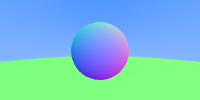
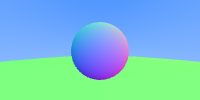
Move averaging into its own module

diff --git a/src/render.rs b/src/render.rs
@@ -1,3 +1,4 @@
+use crate::average::Average;
 use crate::camera::Camera;
 use crate::color::Color;
 use crate::ray::Ray;
@@ -17,8 +18,8 @@ pub struct Renderer {
 }
 
 impl Renderer {
-    /// pixel_at computes the color of the input pixel
-    pub fn write<F>(&self, pixel_at: F)
+    /// `color_hit_by` computes the color of the object the ray hits.
+    pub fn write<F>(&self, color_hit_by: F)
     where
         F: Fn(&Ray) -> Color,
     {
@@ -27,21 +28,31 @@ impl Renderer {
 
         // Iterate over the coordinates and pixels of the image
         for (x, y, pixel) in img_buf.enumerate_pixels_mut() {
-            let mut pixel_color = Vec3::new_uniform(0.0);
+            // Sample a number of points inside the pixel, get each of their colors, and average them
+            // all together. This is called "antialiasing" and helps the image look smoother.
+            let mut avg_color = Average::<Vec3>::new();
             for _ in 0..self.samples {
+                // Choose a random point inside this pixel
                 let rx: f64 = rng.gen();
                 let ry: f64 = rng.gen();
                 let u = (x as f64 + rx) / (self.width as f64);
                 let v = ((self.height - y) as f64 + ry) / (self.height as f64);
-                let ray = self.camera.ray_to_point(u, v);
-                pixel_color += pixel_at(&ray).vec();
-            }
-            pixel_color = pixel_color.scale(1.0 / self.samples as f64);
 
-            let color: Color = pixel_color.into();
-            *pixel = image::Rgb(color.to_rgb());
+                // Then get the ray from the camera to that point,
+                // check what color it hits.
+                let ray = self.camera.ray_to_point(u, v);
+                let color_at_this_point = color_hit_by(&ray);
+
+                // To do antialiasing, average this color with all the other points inside this pixel.
+                avg_color.push(color_at_this_point.vec());
+            }
+
+            // Write the final pixel color into the image.
+            let antialiased_pixel_color = avg_color.average();
+            *pixel = image::Rgb(Color::from(antialiased_pixel_color).to_rgb());
         }
 
+        // Write the image to disk
         let path = Path::new(self.output_dir).join(self.filename);
         img_buf.save(path).unwrap();
     }

diff --git a/src/vector.rs b/src/vector.rs
@@ -1,3 +1,4 @@
+use crate::average::Scalable;
 use std::iter::Sum;
 use std::ops::{Add, AddAssign, Div, DivAssign, Mul, MulAssign, Neg, Sub, SubAssign};
 
@@ -51,15 +52,6 @@ impl Vec3 {
         (self.x * self.x) + (self.y * self.y) + (self.z * self.z)
     }
 
-    /// Scale the vector by a scalar
-    pub fn scale(&self, f: f64) -> Self {
-        Vec3 {
-            x: f * self.x,
-            y: f * self.y,
-            z: f * self.z,
-        }
-    }
-
     // Create a weighted average of the two vectors, i.e.
     // t*other + (1-t)self
     pub fn interpolate(&self, other: &Vec3, t: f64) -> Self {
@@ -67,11 +59,32 @@ impl Vec3 {
     }
 }
 
+impl Scalable for Vec3 {
+    /// Scale the vector by a scalar
+    fn scale(&self, f: f64) -> Self {
+        Vec3 {
+            x: f * self.x,
+            y: f * self.y,
+            z: f * self.z,
+        }
+    }
+}
+
 impl<'a> Sum<&'a Vec3> for Vec3 {
-    fn sum<I: Iterator<Item = &'a Vec3>>(mut iter: I) -> Vec3 {
+    fn sum<I: Iterator<Item = &'a Vec3>>(iter: I) -> Vec3 {
         let mut output = Vec3::zero();
-        while let Some(v) = iter.next() {
+        for v in iter {
             output += *v;
+        }
+        output
+    }
+}
+
+impl<'a> Sum<Vec3> for Vec3 {
+    fn sum<I: Iterator<Item = Vec3>>(iter: I) -> Vec3 {
+        let mut output = Vec3::zero();
+        for v in iter {
+            output += v;
         }
         output
     }

diff --git a/src/main.rs b/src/main.rs
@@ -1,3 +1,4 @@
+mod average;
 mod camera;
 mod color;
 mod hittable;
@@ -5,6 +6,7 @@ mod ray;
 mod render;
 mod vector;
 
+use crate::average::Scalable;
 use crate::camera::Camera;
 use crate::color::Color;
 use crate::hittable::{Hittable, Sphere};
@@ -30,7 +32,7 @@ fn main() {
         camera,
         samples: NUM_ANTIALIAS_SAMPLES,
     };
-    r.write(render)
+    r.write(color_hit_by)
 }
 
 /// Render the nice blue/white background
@@ -41,7 +43,7 @@ fn background(r: &Ray) -> Color {
     white.vec().interpolate(&blue.vec(), t).into()
 }
 
-fn render(ray: &Ray) -> Color {
+fn color_hit_by(ray: &Ray) -> Color {
     // Let's put a sphere in the middle of the scene.
     let little_sphere = Hittable::Sphere(Sphere {
         center: Vec3 {
@@ -62,9 +64,11 @@ fn render(ray: &Ray) -> Color {
     });
     let scene = Hittable::Many(vec![big_sphere, little_sphere]);
 
-    // What color should this pixel be? Depends on if the ray hits an object in the scene.
+    // What color should this pixel be?
+    // If the ray hits an object, it'll be that object's colour.
     if let Some(hit) = scene.hit(&ray, 0.0, std::f64::MAX) {
         (hit.normal + Vec3::new_uniform(1.0)).scale(0.5).into()
+    // Otherwise, it'll be the color of the background.
     } else {
         background(ray)
     }

diff --git a/src/average.rs b/src/average.rs
@@ -1,0 +1,37 @@
+pub use std::iter::Sum;
+pub use std::ops::Div;
+
+/// Consumes values and yields their average.
+pub struct Average<T> {
+    v: Vec<T>,
+}
+
+impl<T> Average<T> {
+    /// Get a new Average with no values.
+    pub fn new() -> Self {
+        Average { v: Vec::new() }
+    }
+}
+
+// Anything that can be scaled by a number.
+pub trait Scalable {
+    fn scale(&self, f: f64) -> Self;
+}
+
+impl<T> Average<T>
+where
+    T: Sum<T> + Scalable,
+{
+    /// Take a value and add it to the average
+    pub fn push(&mut self, t: T) {
+        self.v.push(t)
+    }
+
+    /// Get the average of all previously-pushed values.
+    pub fn average(self) -> T {
+        let n = self.v.len();
+        let total: T = self.v.into_iter().sum();
+        let avg: T = total.scale(1.0 / n as f64);
+        avg
+    }
+}

diff --git a/src/ray.rs b/src/ray.rs
@@ -1,3 +1,4 @@
+use crate::average::Scalable;
 use crate::Vec3;
 
 /// Rays are just finite lines, i.e. lines with a start and a direction.

diff --git a/src/camera.rs b/src/camera.rs
@@ -1,3 +1,4 @@
+use crate::average::Scalable;
 use crate::ray::Ray;
 use crate::vector::Vec3;
 

diff --git a/src/hittable.rs b/src/hittable.rs
@@ -1,3 +1,4 @@
+use crate::average::Scalable;
 use crate::Ray;
 use crate::Vec3;
 
